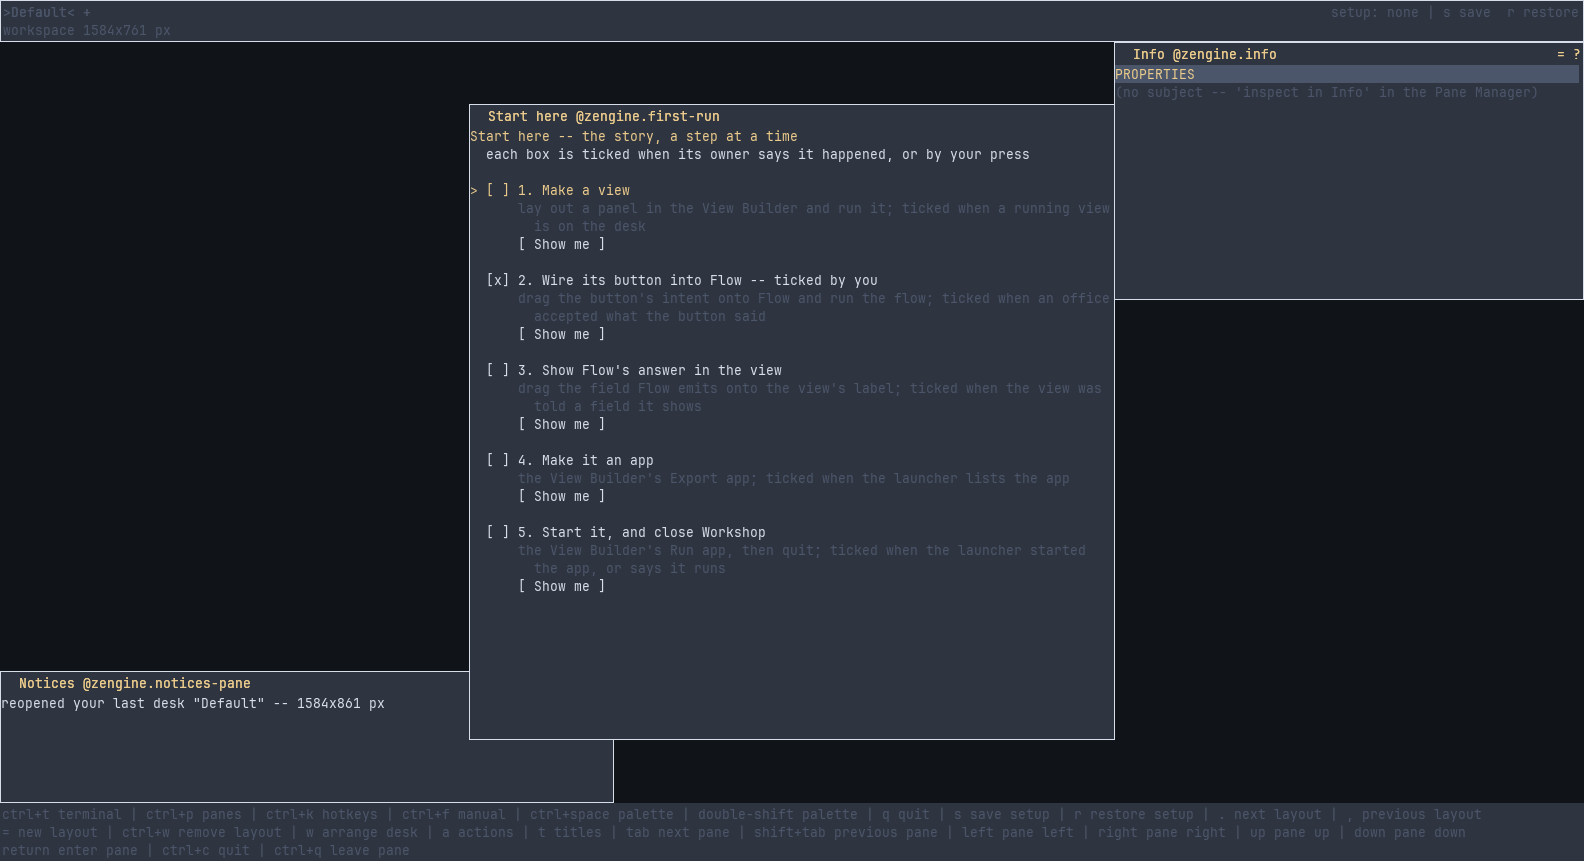
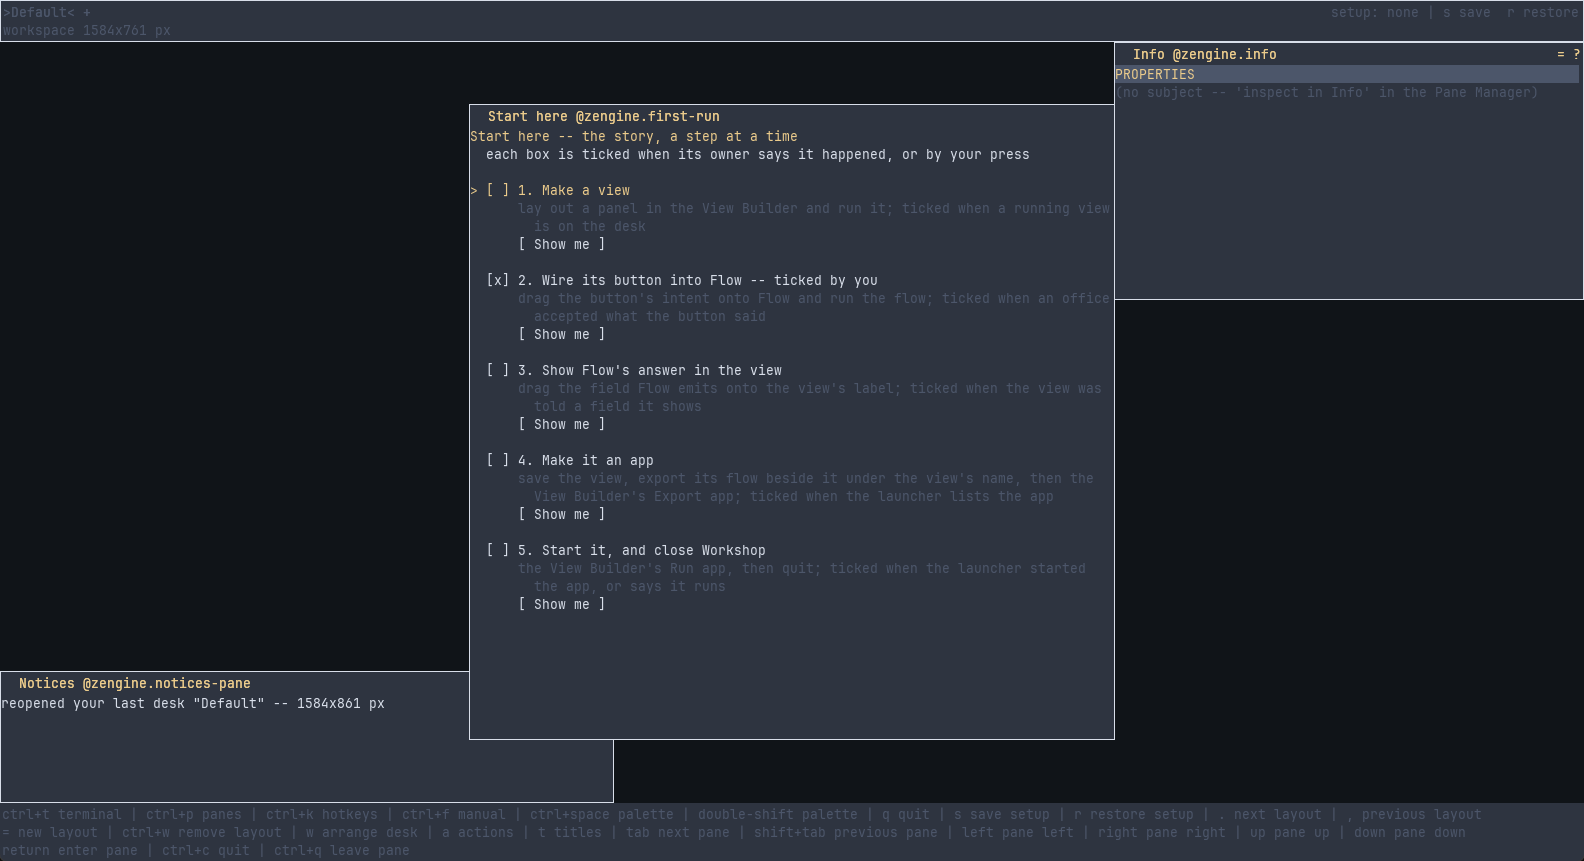
Getting started's picture of Start here at a later start, taken again: step 4 names what Export app needs first

diff --git a/workshop/docs/getting-started.md b/workshop/docs/getting-started.md
@@ -215,7 +215,7 @@ room's centre listing every action, every pane and each open pane's manual; type
 
 ![The quick setup at a first start, at the room's centre and holding the keys, being placed: Arranging Mode Active names it above it, Info and Notices fade beside it; it lists Edit text with Neovim, each ready-to-use setup the launcher lists with Start and its whole line, The story, Done and Skip; Notices says showed Quick setup and how to place it](images/first-run-quick-setup.png)
 
-![Start here at a later start, where it was left at the room's centre, without the keys: step 2 ticked by you, the others still to do, each with what ticks it and Show me; Notices says only reopened your last desk "Default" -- 1584x861 px](images/first-run-start-here.png)
+![Start here at a later start, where it was left at the room's centre, without the keys: step 2 ticked by you, the others still to do, each with what ticks it and Show me, step 4 naming the view saved and its flow exported beside it before Export app; Notices says only reopened your last desk "Default" -- 1584x861 px](images/first-run-start-here.png)
 
 **A fresh Workshop opens onto your desk**: the Layouts row, Info at the right, Notices at the lower
 left, and the room.
